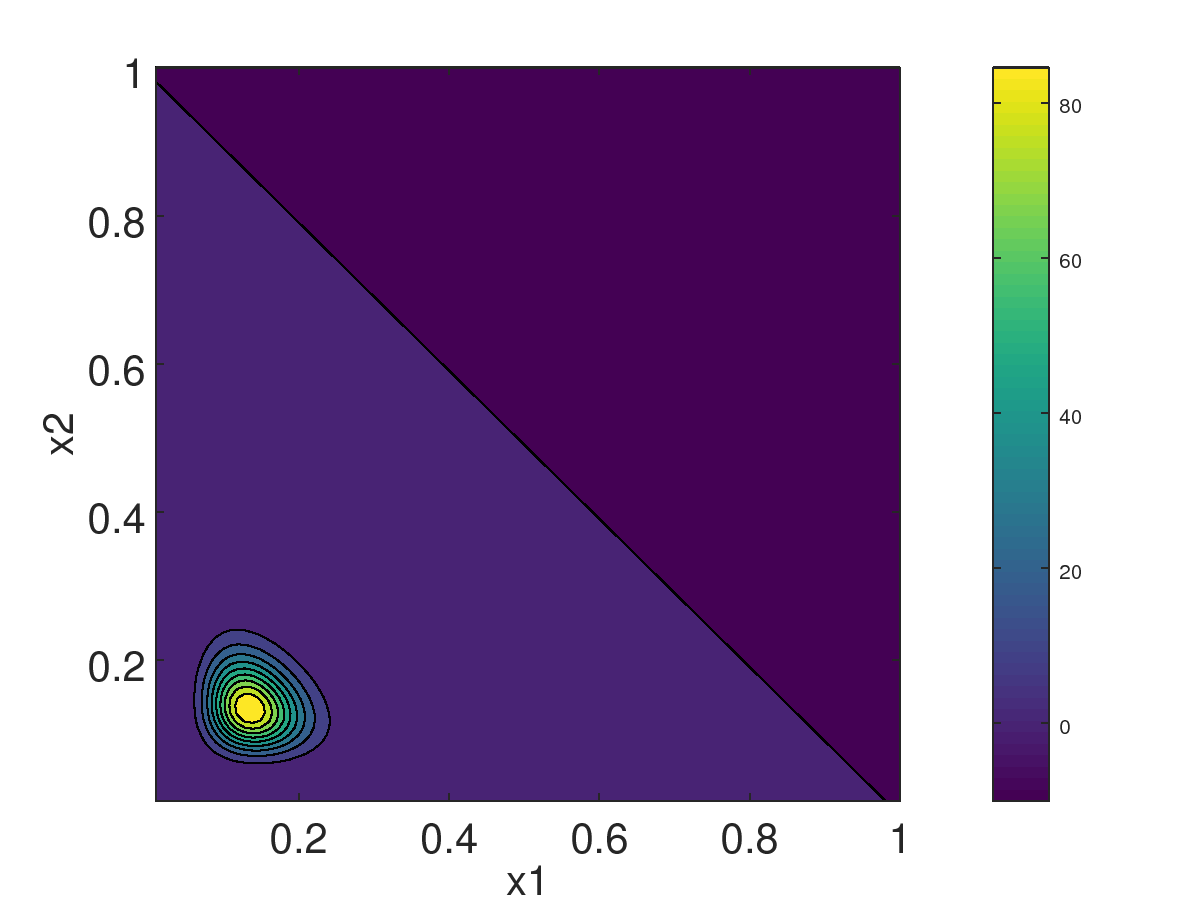
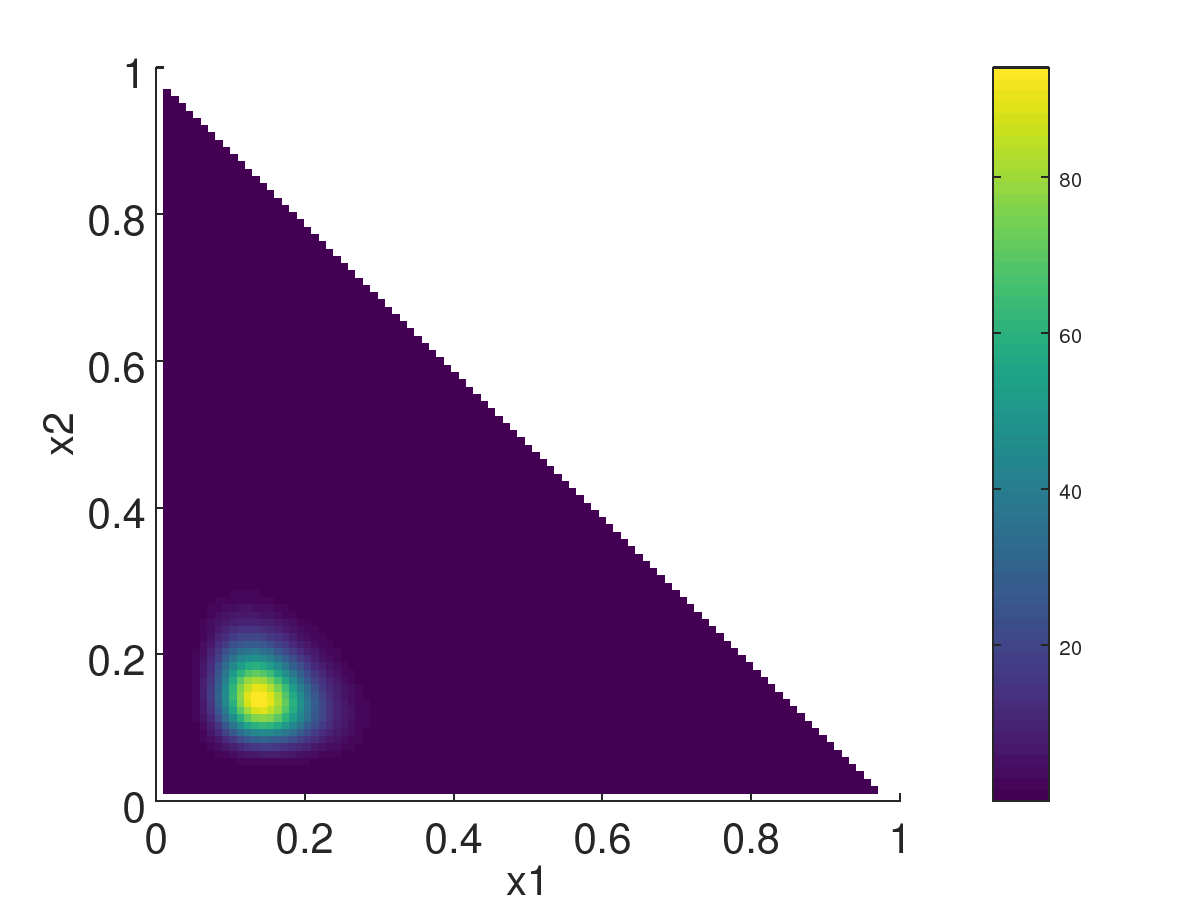
change mvn

diff --git a/dirichlet.m b/dirichlet.m
@@ -4,17 +4,16 @@ x2 = linspace(0.01, 1, 101);
 [X1, X2] = ndgrid(x1, x2);
 X3 = 1 - X1 - X2;
 bad = (X1 + X2 > 1);
-#X1(bad) = NaN;
-#X2(bad) = NaN;
-#X3(bad) = NaN;
+X1(bad) = NaN;
+X2(bad) = NaN;
+X3(bad) = NaN;
 
 betaConst = exp(sum(gammaln(alpha))-gammaln(sum(alpha)));
 F = (X1.^(alpha(1)-1) .* X2.^(alpha(2)-1) .* X3.^(alpha(3)-1)) / betaConst;
-F(bad) = -10;
 
-#figure, surf(X1, X2, F, 'EdgeColor', 'none');
-#grid off;
-contourf(X1, X2, F)
+figure, surf(X1, X2, F, 'EdgeColor', 'none');
+grid off;
+#contourf(X1, X2, F)
 colorbar;
 xlabel('x1', 'fontsize', 20);
 ylabel('x2', 'fontsize', 20);

diff --git a/mvn.m b/mvn.m
@@ -1,0 +1,16 @@
+mu = [-1 0.5];
+Sigma = [1 .5; .5 1];
+
+x1 = -3:.2:3;
+x2 = -3:.2:3;
+[X1, X2] = meshgrid(x1, x2);
+F = mvnpdf([X1(:) X2(:)], mu, Sigma);
+F = reshape(F, length(x2), length(x1));
+# y = exp(-0.5*(x-mu)'*pinv(Sigma)*(x-mu))/sqrt((2*pi)^k * det(Sigma))
+surf(x1, x2, F);
+caxis([min(F(:))-.5*range(F(:)), max(F(:))]);
+axis([-3 3 -3 3 0 .4]);
+xlabel("x1");
+ylabel("x2");
+zlabel("Probability Density");
+saveas(1, "mvn.png");

diff --git a/iwish.m b/iwish.m
@@ -1,0 +1,8 @@
+Phi = [1 .5; .5 1]
+v = 10
+Sigma_k = iwishrnd(Phi, v)
+
+mu = [0 0];
+mu_k = mvnrnd(mu, Sigma_k)
+
+mvnrnd(mu_k, Sigma_k)
